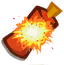
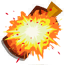
completion of the spritesheet QMap with QVectors frames of blue, green and red grenades exploding

diff --git a/Core/Game.h b/Core/Game.h
@@ -83,6 +83,9 @@ class Game{
       //2 maps to the set of frames showing an explosion
       //3 maps to the set of frames showing the worm moving right
       //4 maps to the set of frames showing the worm moving left
+      //5 maps to the set of frames showing the blue grenade exploding
+      //6 maps to the set of frames showing the green grenade exploding
+      //7 maps to the set of frames showing the red grenade exploding
       QMap<int, QVector<QPixmap>> spritesheets =
       {
       {1, {QPixmap::fromImage(QImage("://Images/Dying worm version 6-1 (glissées).tiff").scaled(QSize(32,32))),
@@ -128,6 +131,24 @@ class Game{
            QPixmap::fromImage(QImage("://Images/Worm moving version 5 three frames 0.15 sec/Frames worm moving left/Worm moving version 5 left-1 (glissées).tiff").scaled(QSize(32,32))),
            QPixmap::fromImage(QImage("://Images/Worm moving version 5 three frames 0.15 sec/Frames worm moving left/Worm moving version 5 left-1 (glissées).tiff").scaled(QSize(32,32))),
            QPixmap::fromImage(QImage("://Images/Worm moving version 5 three frames 0.15 sec/Frames worm moving left/Worm moving version 5 left-1 (glissées).tiff").scaled(QSize(32,32)))}
+       },
+
+       {5, {QPixmap::fromImage(QImage("://Images/Grenades exploding/Blue Grenade exploding frames/Blue 1.png").scaled(QSize(32,32))),
+           QPixmap::fromImage(QImage("://Images/Grenades exploding/Blue Grenade exploding frames/Blue 2.png").scaled(QSize(32,32))),
+           QPixmap::fromImage(QImage("://Images/Grenades exploding/Blue Grenade exploding frames/Blue 3.png").scaled(QSize(32,32))),
+           QPixmap::fromImage(QImage("://Images/Grenades exploding/Blue Grenade exploding frames/Blue 4.png").scaled(QSize(32,32)))}
+       },
+
+       {6, {QPixmap::fromImage(QImage("://Images/Grenades exploding/Green Grenade exploding frames/Green 1.png").scaled(QSize(32,32))),
+            QPixmap::fromImage(QImage("://Images/Grenades exploding/Green Grenade exploding frames/Green 2.png").scaled(QSize(32,32))),
+            QPixmap::fromImage(QImage("://Images/Grenades exploding/Green Grenade exploding frames/Green 3.png").scaled(QSize(32,32))),
+            QPixmap::fromImage(QImage("://Images/Grenades exploding/Green Grenade exploding frames/Green 4.png").scaled(QSize(32,32)))}
+       },
+
+       {7, {QPixmap::fromImage(QImage("://Images/Grenades exploding/Red Grenade exploding frames/Red 1.png").scaled(QSize(32,32))),
+            QPixmap::fromImage(QImage("://Images/Grenades exploding/Red Grenade exploding frames/Red 2.png").scaled(QSize(32,32))),
+            QPixmap::fromImage(QImage("://Images/Grenades exploding/Red Grenade exploding frames/Red 3.png").scaled(QSize(32,32))),
+            QPixmap::fromImage(QImage("://Images/Grenades exploding/Red Grenade exploding frames/Red 4.png").scaled(QSize(32,32)))}
        }
 
       };
